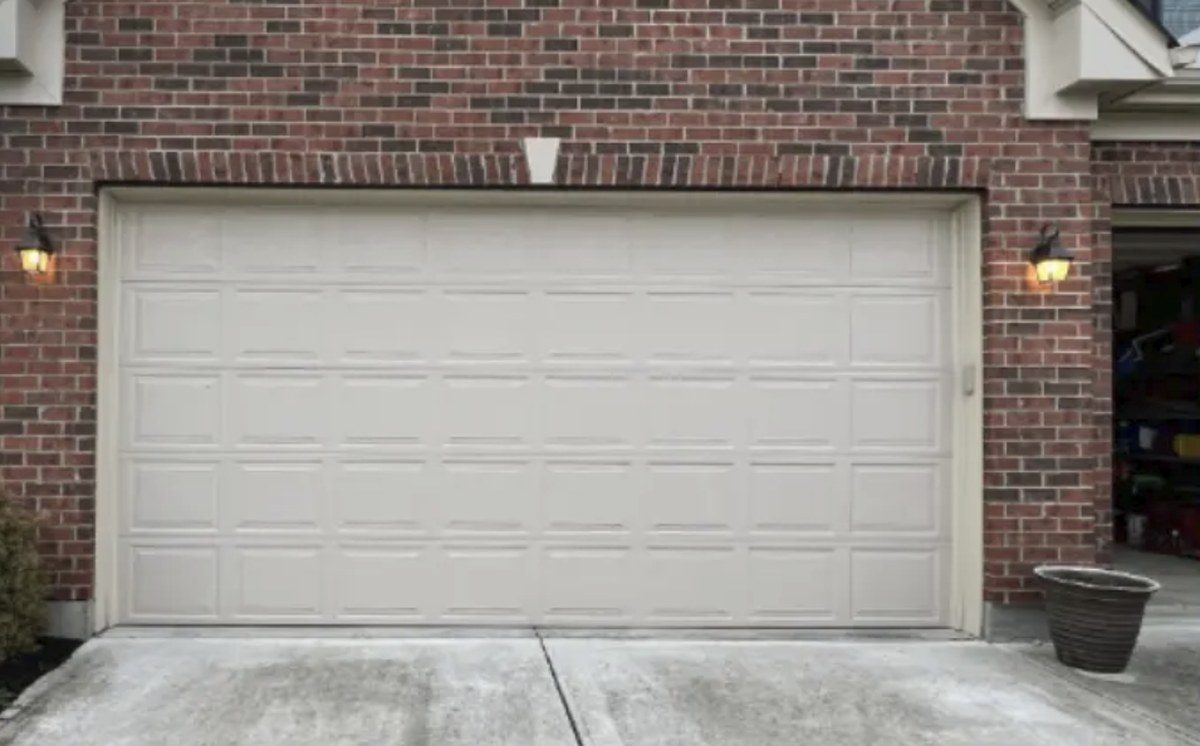
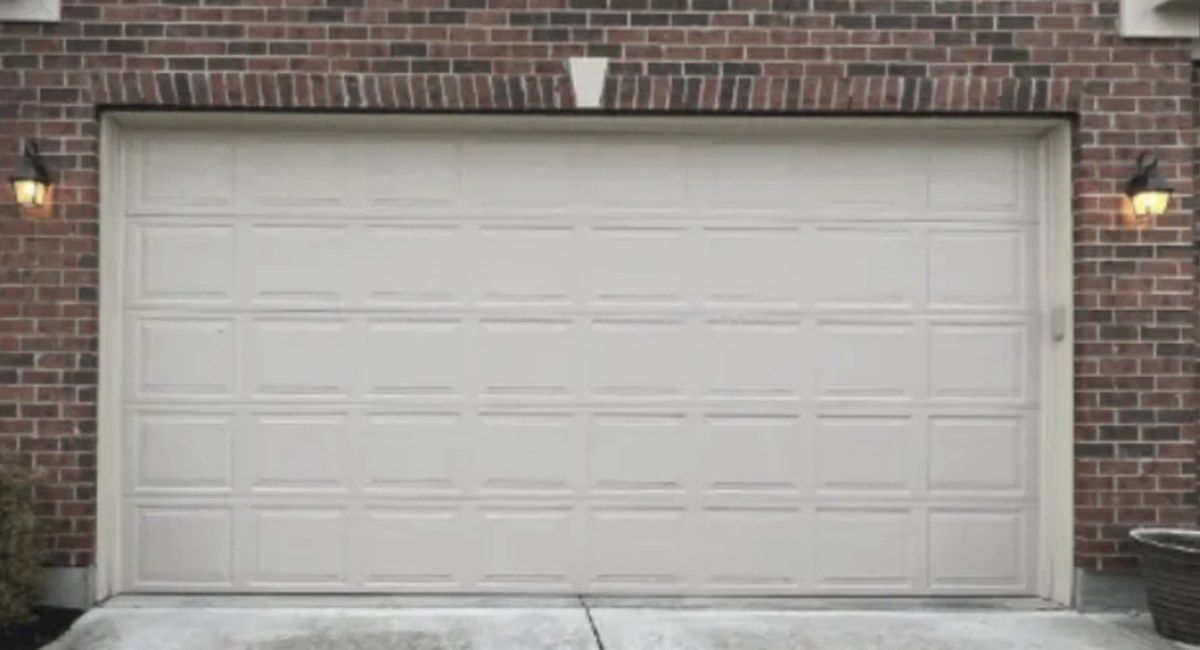
Site v6: before/after cropped to wall, lights and door; internal notes removed

diff --git a/index.html b/index.html
@@ -25,7 +25,7 @@
   "telephone": "+14253017543",
   "email": "info@LWDoorService.com",
   "url": "https://lwdoorservice.com/",
-  "image": "https://lwdoorservice.com/og-image.png",
+  "image": "https://lwdoorservice.com/logos/badge.png",
   "priceRange": "$$",
   "slogan": "Quick Response. Better Solutions. Best Price!",
   "areaServed": [{"@type":"City","name":"Kirkland"},{"@type":"City","name":"Bellevue"},{"@type":"City","name":"Redmond"},{"@type":"City","name":"Sammamish"},{"@type":"City","name":"Bothell"},{"@type":"City","name":"Woodinville"},{"@type":"City","name":"Kenmore"},{"@type":"City","name":"Mercer Island"},{"@type":"City","name":"Seattle"}]
@@ -81,7 +81,6 @@
     <li><svg class="icon" aria-hidden="true" focusable="false"><use href="icons.svg#star"/></svg> <a href="https://www.yelp.com/biz/lake-washington-garage-door-service-kirkland-2" rel="noopener">Perfect 5-Star Ratings on Yelp</a></li>
     <li><svg class="icon" aria-hidden="true" focusable="false"><use href="icons.svg#clock"/></svg> Same-Day Service</li>
     <li><svg class="icon" aria-hidden="true" focusable="false"><use href="icons.svg#shield"/></svg> Owner on every job</li>
-    <li><svg class="icon" aria-hidden="true" focusable="false"><use href="icons.svg#shield"/></svg> Contractor license #: TBD</li>
   </ul>
 </div>
 
@@ -144,7 +143,6 @@
   <div class="wrap">
     <h2 id="awards-h" class="sr-only">Awards and ratings</h2>
     <img class="awards" src="images/trust-badges.jpg" alt="Awards and ratings: Angi 2021 Super Service Award, BBB A+ rating, HomeAdvisor 5 years Screened and Approved, HomeAdvisor Elite Service, HomeAdvisor Top Rated, Angie's List Super Service Award 2017 to 2020" width="1600" height="685" loading="lazy">
-    <p class="fine center">Badges are from the previous website and are to be confirmed with Danny.</p>
   </div>
 </section>
 
@@ -217,7 +215,7 @@
 <section class="estimate-band" aria-labelledby="est-h">
   <div class="wrap">
     <h2 id="est-h">Get a free estimate on a new door</h2>
-    <p class="lead">Quoted upfront, no obligation. Starting prices: TBD (to be confirmed with the owner).</p>
+    <p class="lead">Quoted upfront, no obligation.</p>
     <a class="btn btn-estimate btn-lg" href="contact.html">Request a Free Estimate</a>
   </div>
 </section>
@@ -235,7 +233,6 @@
       <span class="ba-handle" aria-hidden="true"></span>
       <input class="ba-range" type="range" min="0" max="100" value="50" aria-label="Before and after comparison, drag to reveal">
     </figure>
-    <p class="fine center">Sample photos, to be replaced with our own jobs.</p>
   </div>
 </section>
 
@@ -243,7 +240,6 @@
   <div class="wrap">
     <div class="section-head center">
       <h2 id="faq-h">Frequently asked questions</h2>
-      <p class="fine"><span class="draft-tag">Draft</span> Answers are drafts pending the owner's review.</p>
     </div>
     <div class="faq">
       <details><summary>Do you offer emergency service?</summary><p>Yes. Call 425-301-7543 and we prioritize doors that are stuck shut or stuck open. Most Eastside calls are handled the same day.</p></details>
@@ -252,7 +248,7 @@
       <details><summary>How can I pay?</summary><p>Check is preferred, and cards are accepted.</p></details>
       <details><summary>My door is loud. Can you fix it?</summary><p>Usually yes. It is most often a tune-up: we inspect the door, lubricate the moving parts, tighten the hardware and adjust the balance.</p></details>
       <details><summary>Do you give free estimates?</summary><p>Yes, free estimates on new doors. For repairs we quote the price upfront, before any work starts.</p></details>
-      <details><summary>How much does a spring replacement cost?</summary><p>It depends on the spring size, whether one or both springs are replaced, and your door's weight. We give you a firm price before we start. A typical price range will be added once confirmed.</p></details>
+      <details><summary>How much does a spring replacement cost?</summary><p>It depends on the spring size, whether one or both springs are replaced, and your door's weight. We give you a firm price before we start.</p></details>
       <details><summary>Which cities do you serve?</summary><p>Kirkland, Bellevue, Redmond, Sammamish, Bothell, Woodinville, Kenmore, Mercer Island, Juanita, Totem Lake and the Seattle Eastside. Not sure? Call us.</p></details>
     </div>
   </div>

diff --git a/styles.css b/styles.css
@@ -285,7 +285,7 @@ body { overflow-x: hidden; }
 .faq details[open] summary { border-bottom: 1px solid var(--line); }
 .faq details p { margin: 0; padding: .9rem 1.1rem; color: var(--muted); }
 .draft-tag { display: inline-block; background: #fff3cd; color: #5c4400; border: 1px solid #e6c65c; border-radius: 4px; padding: 0 .4rem; font-weight: 700; font-size: .8rem; }
-.ba { position: relative; max-width: 56rem; margin: 0 auto; aspect-ratio: 16 / 10; overflow: hidden; border-radius: var(--radius); border: 1px solid var(--line); box-shadow: var(--shadow); --pos: 50%; }
+.ba { position: relative; max-width: 56rem; margin: 0 auto; aspect-ratio: 1200 / 650; overflow: hidden; border-radius: var(--radius); border: 1px solid var(--line); box-shadow: var(--shadow); --pos: 50%; }
 .ba img { position: absolute; inset: 0; width: 100%; height: 100%; object-fit: cover; }
 .ba-before { clip-path: inset(0 calc(100% - var(--pos)) 0 0); }
 .ba-handle { position: absolute; top: 0; bottom: 0; left: var(--pos); width: 4px; margin-left: -2px; background: #fff; box-shadow: 0 0 0 1px rgba(0,0,0,.35); pointer-events: none; }
